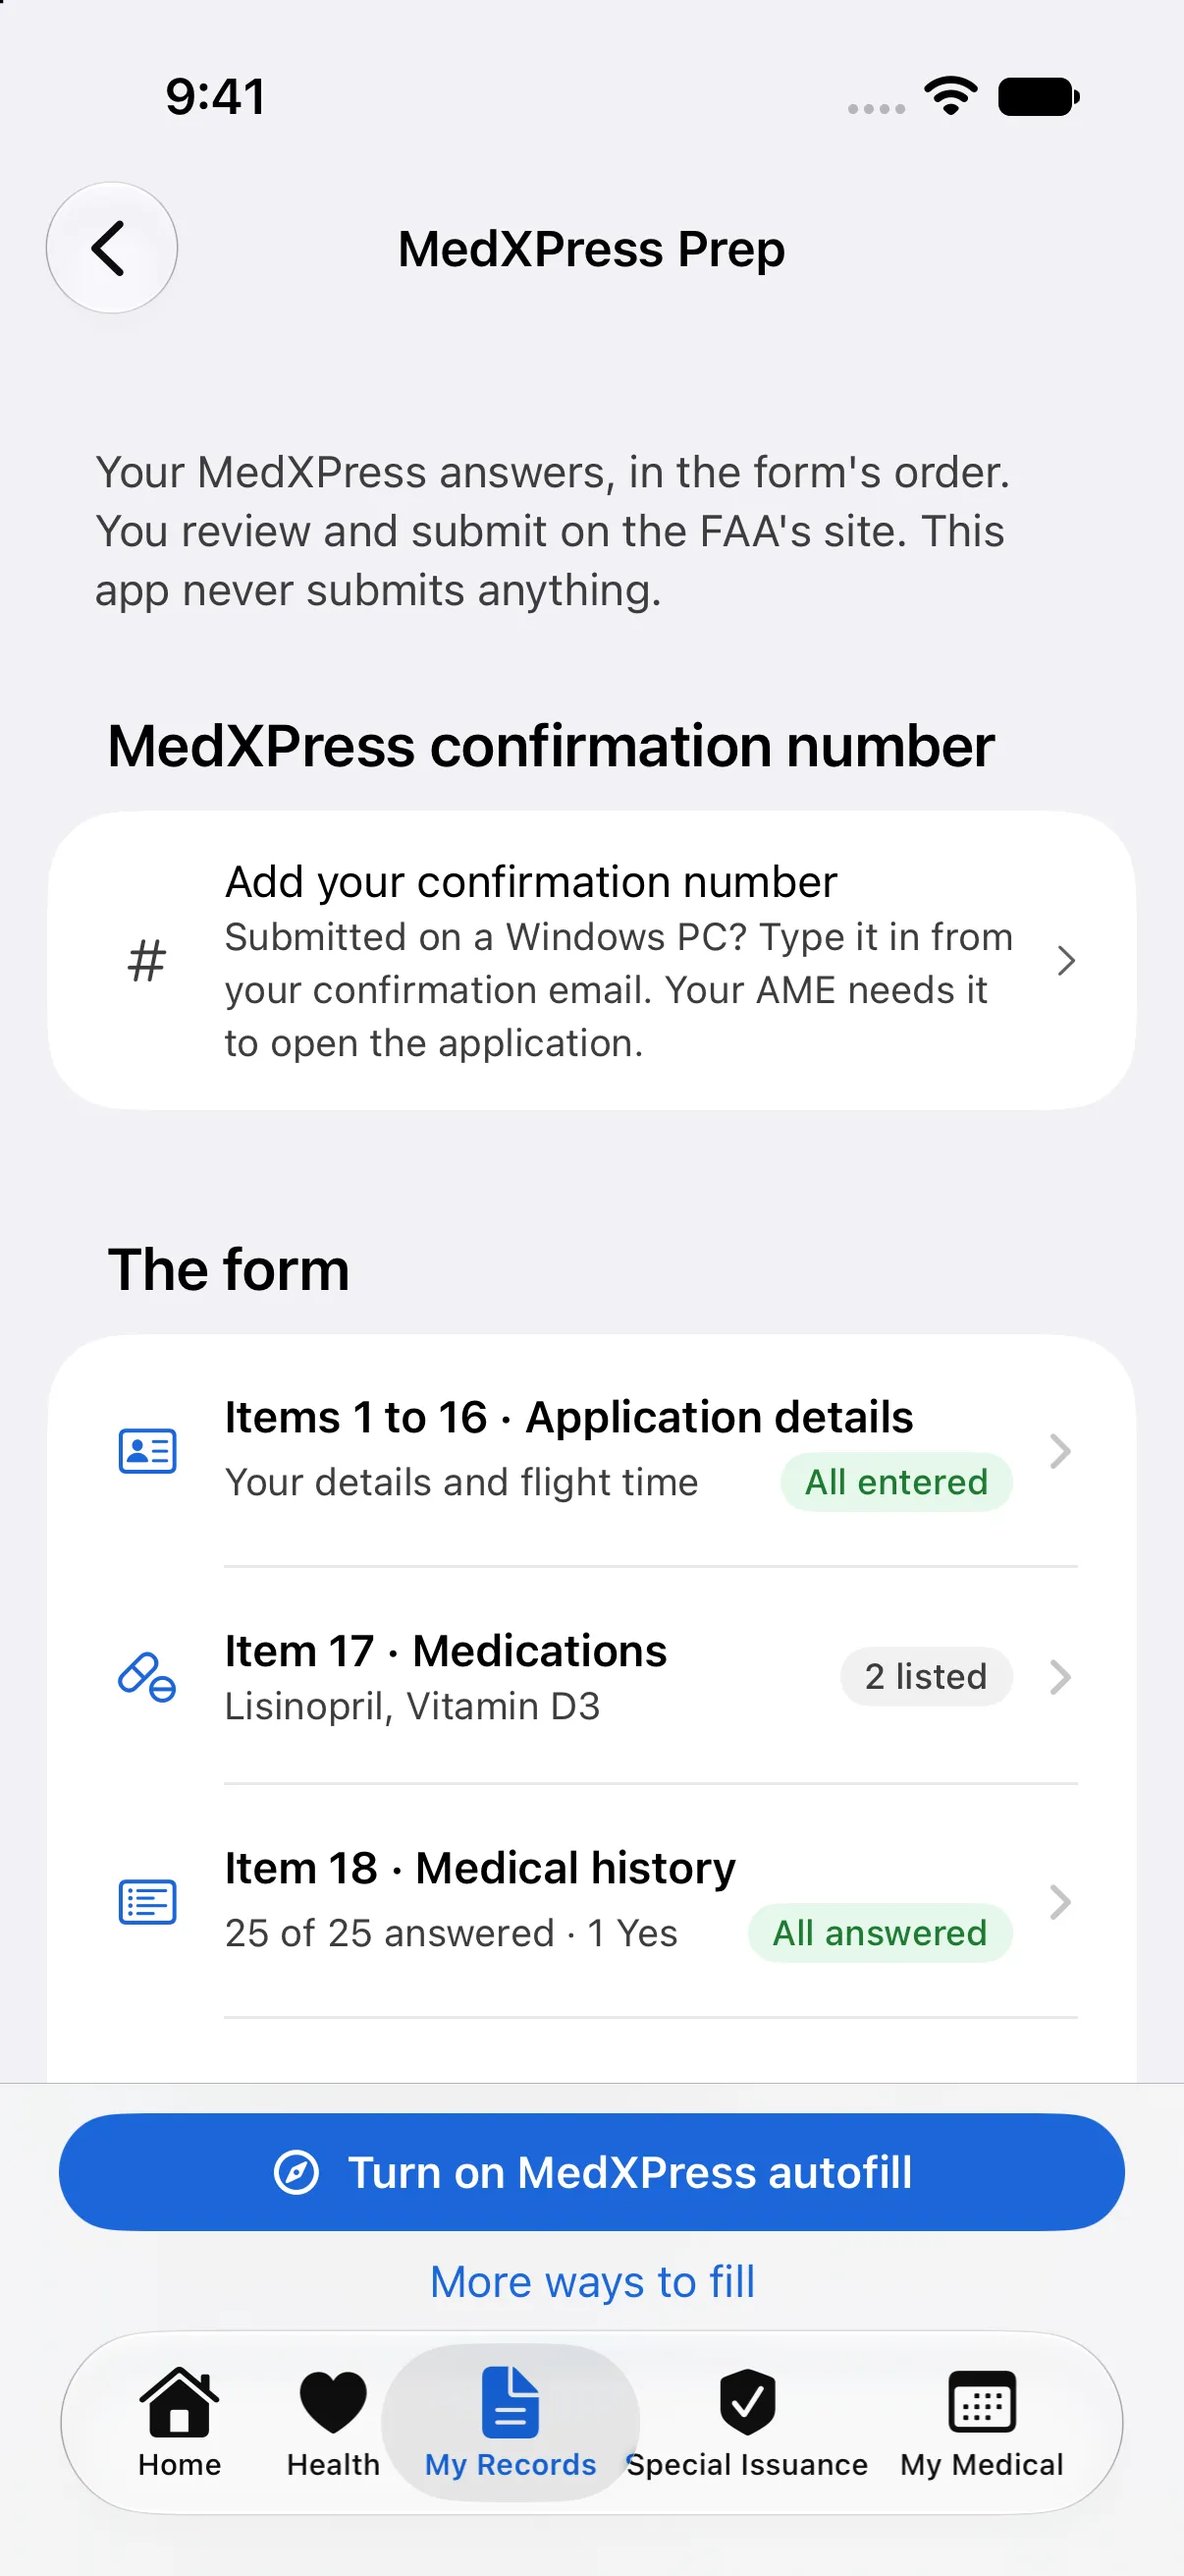
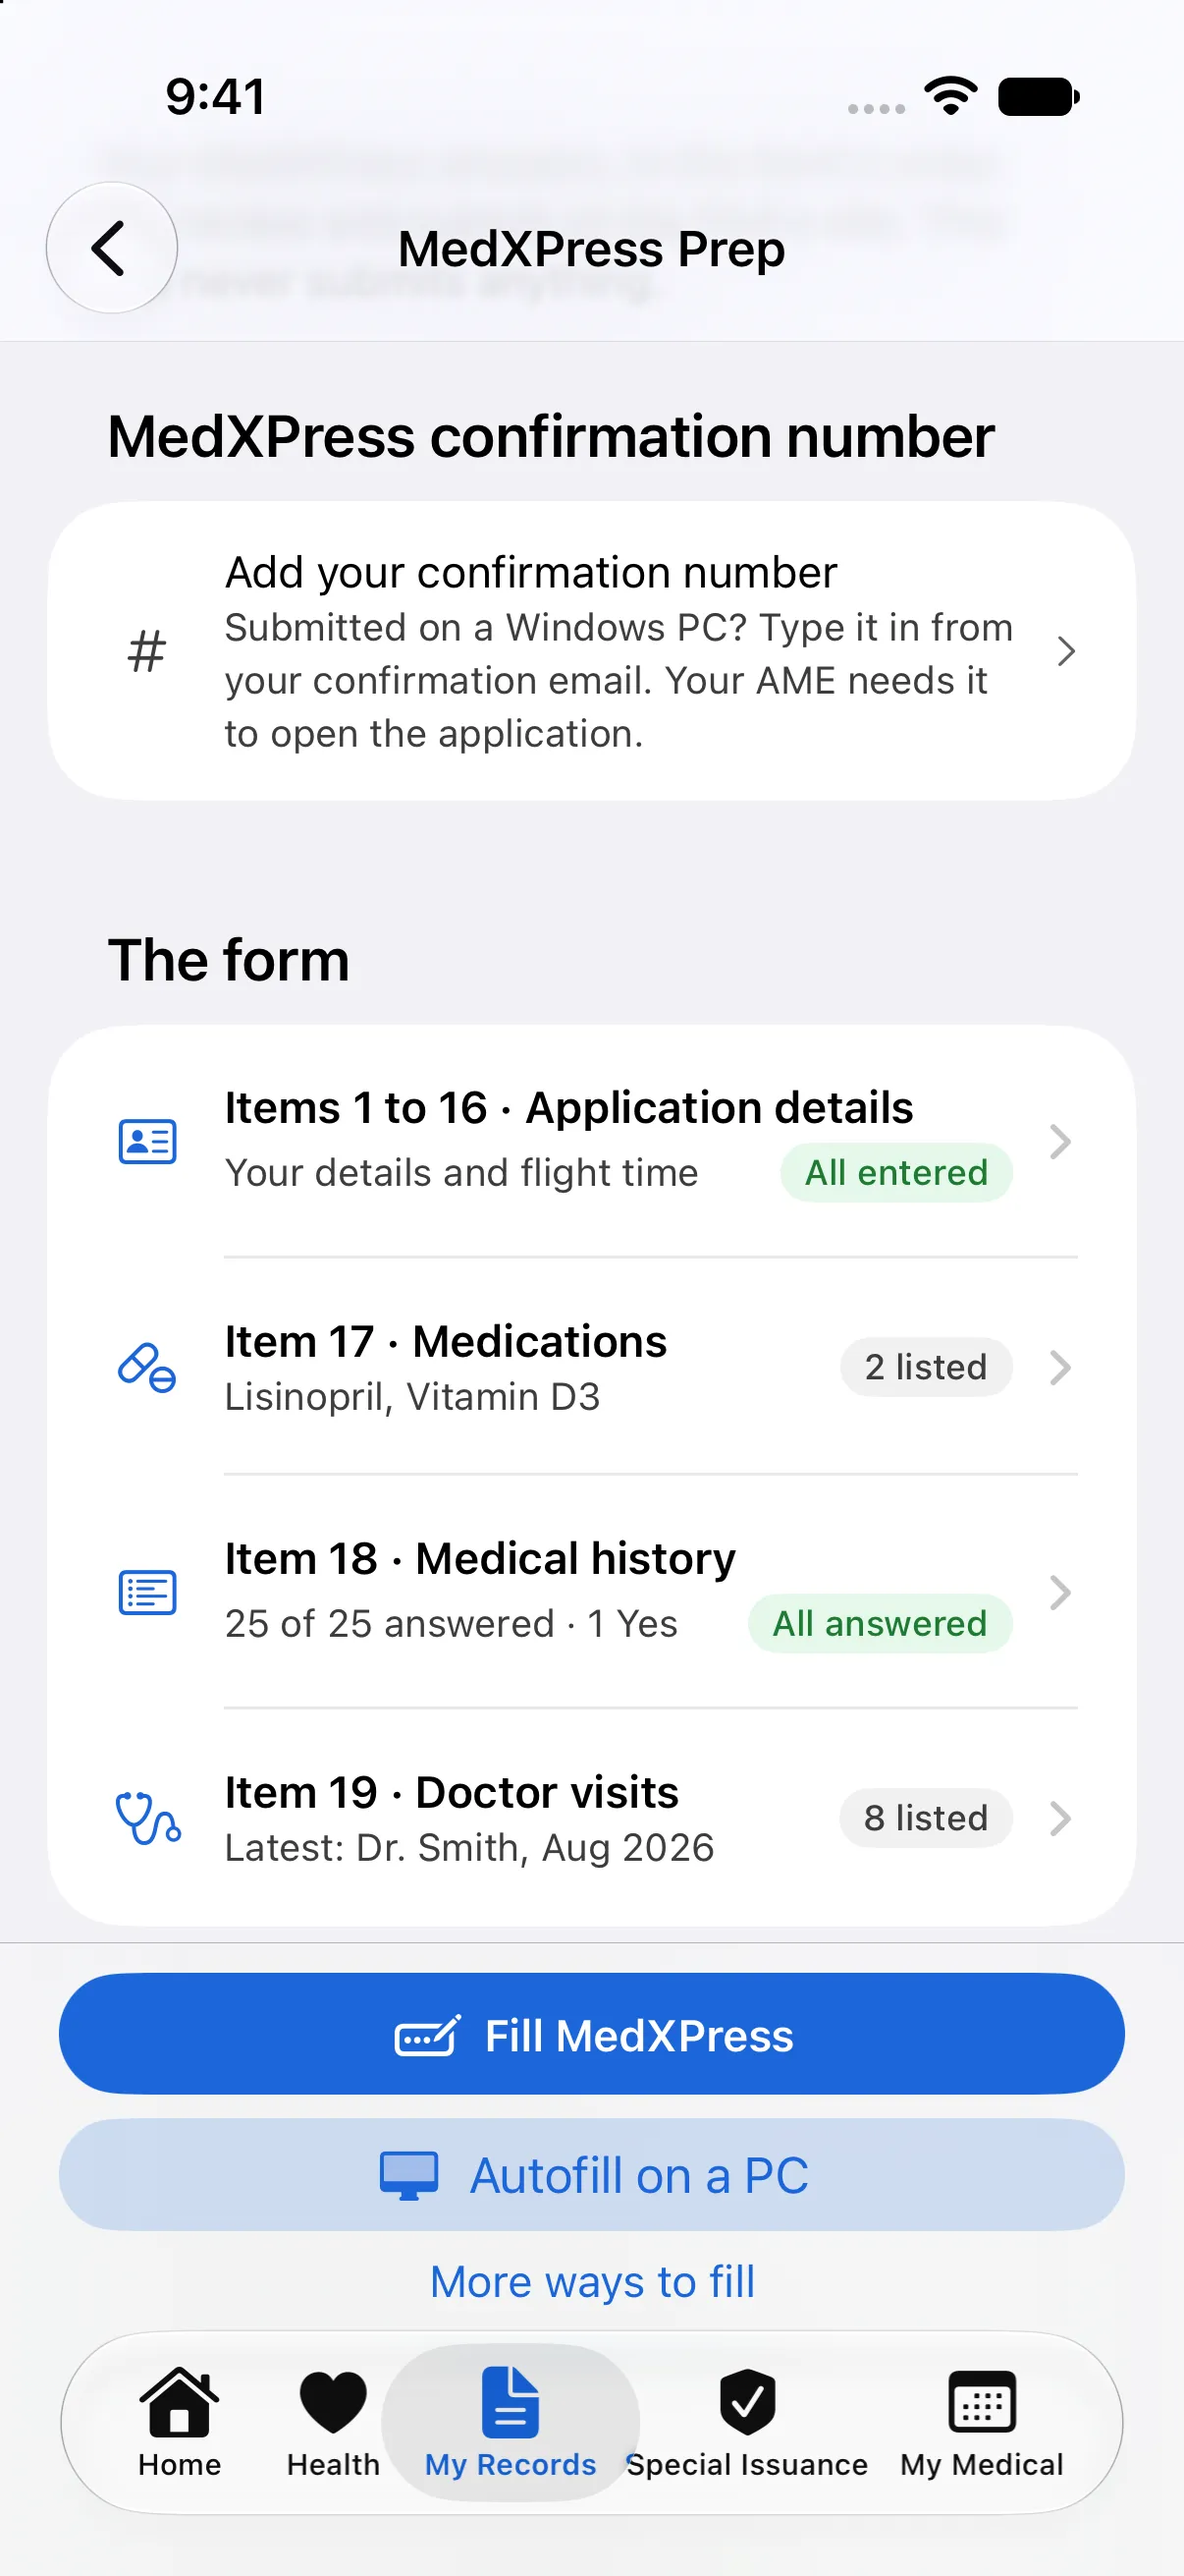
STAGED day one if iOS 2.5.0 is approved first (automatic release; Hub 11/23): privacy in-app card + RevenueCat line, FAQ logout answer, whats-new in-app entry scoped to iOS 2.5.0, that platform's screenshot only. Rest of the site stays Safari-first (still true on both) until both are live, then inap

diff --git a/privacy.html b/privacy.html
@@ -107,6 +107,11 @@
     </div>
 
     <div class="card">
+      <h3>MedXPress inside the app</h3>
+      <p>Fill MedXPress opens the FAA's own MedXPress website inside the app. You sign in on the FAA's page. Your password goes to the FAA. The app does not read or keep it. When you use Fill from Pilot Medical Guardian on a MedXPress page, the fill script runs on your device. It reads your already-saved records from the app's storage on your device and writes them into the MedXPress form fields. <strong>Nothing is sent to me.</strong> Your MedXPress sign-in, cookies and site storage stay in memory only. They are never saved to your device, and they end when you quit the app or use Erase All Data. Tapping Done does not sign you out. The fill script adds no network requests to the MedXPress page. The FAA page makes the same requests it makes in Safari, including services the FAA itself uses.</p>
+    </div>
+
+    <div class="card">
       <h3>Safari Web Extension (MedXPress autofill)</h3>
       <p>When you enable PMG's optional Safari extension, it runs <strong>only on medxpress.faa.gov</strong>. The extension reads your already-saved records (medications, doctor visits, medical history answers, and the application details you enter for MedXPress's first pages, such as address, phone, date of birth, certificates and flight time) from the same on-device storage as the main app, through Apple's shared App Group mechanism. Your data never transits any server. It writes those records into MedXPress's form fields so you don't have to retype them at every renewal. You can disable the extension any time in Safari's settings; the main app keeps working without it. The extension itself uses no analytics, sends nothing to me, and connects to no third-party service. It only reads your already-saved records and writes them into the MedXPress form fields.</p>
     </div>
@@ -128,7 +133,7 @@
 
     <div class="card">
       <h3>No tracking, no ads, no selling in the app</h3>
-      <p>The app has no advertising and no tracking, and I never sell your data. Not now, not ever. The only outside code in the app is RevenueCat, which runs the Guardian Pro subscription: it receives an anonymous "is this device subscribed?" signal (never any health content, and nothing that identifies you) so Pro unlocks, renewals work, and I can see anonymous, aggregate subscription numbers. That's the one thing the App Store lists as collected. See "Subscriptions &amp; payments" below for exactly what it is and isn't.</p>
+      <p>The app has no advertising and no tracking, and I never sell your data. Not now, not ever. The only outside code built into the app is RevenueCat, which runs the Guardian Pro subscription: it receives an anonymous "is this device subscribed?" signal (never any health content, and nothing that identifies you) so Pro unlocks, renewals work, and I can see anonymous, aggregate subscription numbers. That's the one thing the App Store lists as collected. See "Subscriptions &amp; payments" below for exactly what it is and isn't. When you open MedXPress inside the app, the FAA's page runs the same code it runs in Safari.</p>
       <p><strong>This website</strong>, separate from the app, counts page views using <strong>Cloudflare Web Analytics</strong>. It's cookieless, doesn't follow you across other sites, and doesn't build a profile of you. It tells me which pages get read and roughly what country a visit came from; nothing that identifies you, and it has no access to anything in the app.</p>
       <p style="margin-bottom:0">I'm also running a small paid-search test to see whether ads are a sensible way to reach pilots, so this website currently loads <strong>Google's advertising tag</strong> as well. I'd rather tell you than have you find it. Unlike the Cloudflare counter, it does set cookies and it does let Google connect a visit here to an ad click. That is ordinary ad measurement, and it is the one thing on this site that follows you across sites. It sees pages and clicks on this website only. It has no access to anything in the app, and there is nothing about your health, medications, conditions or documents on this website for it to see: those live on your device and your own iCloud and never reach any web page. If I stop the test, the tag comes off and this paragraph goes with it.</p>
     </div>

diff --git a/whats-new.html b/whats-new.html
@@ -92,6 +92,7 @@
       <h3>Now in the app</h3>
       <p class="pro-note">Most of this is free: your renewal countdown and reminders, unlimited record-keeping (application details, medications, Item 18 answers, doctor visits), the medication reference, Health, and the AME directory. Your first MedXPress autofill is free for 7 days from your first Fill. After that, autofill every renewal is part of Guardian Pro. The items marked <span class="pro-tag">Guardian Pro</span> are part of the optional subscription.</p>
       <ul>
+        <li><strong>Fill MedXPress, right in the app:</strong> <span class="pro-tag">Guardian Pro</span> one button, Fill MedXPress, opens the FAA's MedXPress site inside the app and fills the form from your records. Nothing to set up first. You sign in on the FAA's page, review every answer and submit it yourself. Safari still works: Fill in Safari is the first choice under More ways to fill, after its one-time setup. On iPhone and iPad, from version 2.5.0.</li>
         <li><strong>Import your last application:</strong> choose the PDF MedXPress gave you when you submitted, from MedXPress Prep on iPhone and iPad or File &gt; Import MedXPress Application on Mac. You review every row, and nothing is added until you tap Add.</li>
         <li><strong>Save your confirmation number from Safari:</strong> on Mac, Save confirmation number on the MedXPress confirmation page now reaches your iPhone and iPad without opening the Mac app.</li>
         <li><strong>A simpler Mac sidebar:</strong> Application Details is now Items 1 to 16 in MedXPress Prep, and Doctors is a switch at the top of Doctor visits.</li>
@@ -115,7 +116,6 @@
         <li><strong>Easier to read:</strong> clearer wording and a better fit at larger text sizes across the app.</li>
         <li><strong>Email your AME, already addressed:</strong> <span class="pro-tag">Guardian Pro</span> start Share with my AME from an AME in the directory, or from the AME you marked as yours, and the app fills in the email the FAA's directory lists for them. Check it's where the office wants records sent. One button then opens Apple Mail with your PDF attached and the address, subject and a short note filled in. No Apple Mail account? It copies the address and opens the share sheet for your email app. Email isn't end-to-end encrypted, so the PDF stays in your Sent mail and your AME's inbox until someone deletes it. On iPhone and iPad.</li>
         <li><strong>Fits MedXPress better:</strong> pick a medication's frequency from MedXPress's own 13 choices, so the autofill can fill it. Older entries are matched when the meaning is the same; if one has no match, the app asks you to pick. If a saved address has a symbol MedXPress rejects, like # or a dash, the app points it out and leaves the fix to you. On iPhone and iPad.</li>
-        <li><strong>Autofill setup, easier to find:</strong> on iPhone and iPad, a Turn on MedXPress autofill card in My Records, and the button pinned at the bottom of MedXPress Prep, open the setup steps. Once it's set up, the card shrinks to a small row you can always come back to for help.</li>
         <li><strong>Fewer blanks on MedXPress:</strong> no medications or no doctor visits? Answer Item 17a and Item 19 once in Application Details and the autofill fills No. It also stops at MedXPress's 20-visit limit.</li>
         <li><strong>My Records in MedXPress order:</strong> Application Details, Medications, Item 18, then Doctor Visits, the order you fill out the form.</li>
         <li><strong>Deferral letters:</strong> if the FAA defers your medical, track the letter in Special Issuance: the date, the response time it states, what it asks for and what you've sent.</li>

diff --git a/index.html b/index.html
@@ -623,10 +623,10 @@
       </div>
       <div class="shots">
         <figure><img src="/screenshots/home.webp?v=20261118" width="1206" height="2622" loading="lazy" decoding="async" alt="Home screen showing the time until the medical certificate expires, with BasicMed course and exam countdowns"><figcaption>Know exactly when your medical expires</figcaption></figure>
-        <figure><img src="/screenshots/medxpress.webp?v=20261120" width="1206" height="2622" loading="lazy" decoding="async" alt="MedXPress Prep: one list in the form's order, Items 1 to 16, Item 17 medications, Item 18 medical history and Item 19 doctor visits, with the Open MedXPress in Safari button pinned at the bottom"><figcaption>Your records, organized and ready to autofill</figcaption></figure>
+        <figure><img src="/screenshots/medxpress.webp?v=20261122" width="1206" height="2622" loading="lazy" decoding="async" alt="MedXPress Prep: one list in the form's order, Items 1 to 16, Item 17 medications, Item 18 medical history and Item 19 doctor visits, with the Fill MedXPress button pinned at the bottom"><figcaption>Your records, organized and ready to autofill</figcaption></figure>
         <figure><img src="/screenshots/si.webp?v=20261120" width="1206" height="2622" loading="lazy" decoding="async" alt="Special Issuance screen with authorization dates from the pilot's letter and the items coming up"><figcaption>Stay on top of Special Issuance</figcaption></figure>
         <figure><img src="/screenshots/health.webp?v=20261120" width="1206" height="2622" loading="lazy" decoding="async" alt="A health metric charted against the FAA's cited threshold"><figcaption>Your numbers vs. the FAA's own thresholds</figcaption></figure>
-        <figure><img src="/screenshots/documents.webp?v=20261120" width="1206" height="2620" loading="lazy" decoding="async" alt="The Share-with-your-AME screen, choosing which records to bundle into one PDF"><figcaption>Bundle it into one PDF for your AME</figcaption></figure>
+        <figure><img src="/screenshots/documents.webp?v=20261122" width="1206" height="2620" loading="lazy" decoding="async" alt="The Share-with-your-AME screen, choosing which records to bundle into one PDF"><figcaption>Bundle it into one PDF for your AME</figcaption></figure>
         <figure><img src="/screenshots/faa-reference.webp?v=20261120" width="1206" height="2622" loading="lazy" decoding="async" alt="An FAA Reference entry showing an FAA rule in plain words, the FAA source it links to, and the date the citation was checked"><figcaption>Ask a plain question, get the FAA's cited answer</figcaption></figure>
       </div>
       <p class="fineprint">Screens use sample data.</p>

diff --git a/faq.html b/faq.html
@@ -373,7 +373,7 @@
 
     <details class="qa">
       <summary>The autofill keeps logging me out of MedXPress. What's wrong?</summary>
-      <p>You're probably in a Safari Private Browsing window. Private tabs don't keep you logged in, so each time you switch back to the app, MedXPress makes you sign in again. Open MedXPress in a normal (non-private) Safari window and it'll stay logged in while you work.</p>
+      <p>Inside the app, your MedXPress sign-in, cookies and site storage stay in memory only. They are never saved to your device, and they end when you quit the app or use Erase All Data. Tapping Done does not sign you out. Once the sign-in ends, MedXPress asks you to sign in again. In Safari, you're probably in a Private Browsing window. Private tabs don't keep you logged in, so each time you switch back to the app, MedXPress makes you sign in again. Open MedXPress in a normal (non-private) Safari window and it'll stay logged in while you work.</p>
     </details>
 
     <h2>Trust &amp; content</h2>
